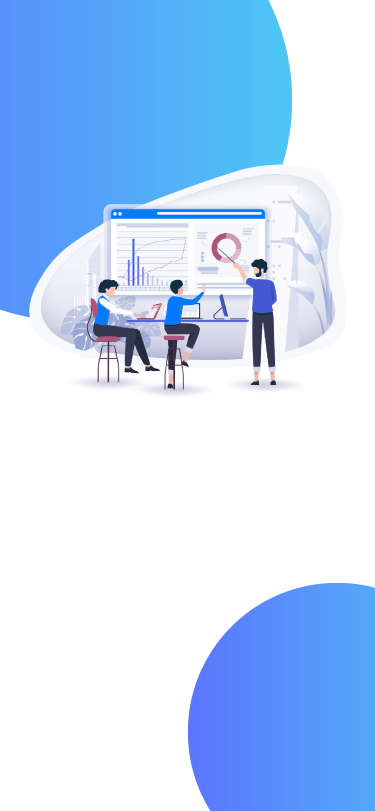
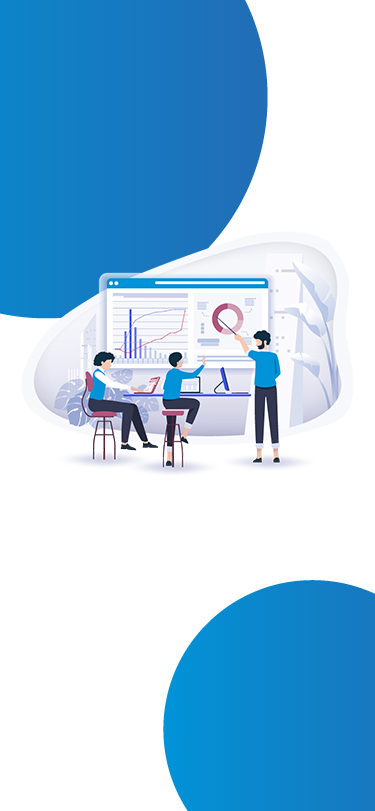
change photos

diff --git a/src/screens/Login/styles.js b/src/screens/Login/styles.js
@@ -17,7 +17,7 @@ const styles = StyleSheet.create({
   },
   topImageStyle: {
     width: ScaleHelpers.CalcWidth(100),
-    height: ScaleHelpers.CalcHeight(90),
+    height: ScaleHelpers.CalcHeight(100),
     alignSelf: 'center',
     justifyContent: 'center',
     alignItems: 'center',
@@ -42,6 +42,7 @@ const styles = StyleSheet.create({
     fontSize: ScaleHelpers.CalcWidth(4),
   },
   logo: {
+    resizeMode: 'stretch',
     width: ScaleHelpers.CalcWidth(70),
     height: ScaleHelpers.CalcWidth(30),
   },

diff --git a/src/Theme/AppStyles.js b/src/Theme/AppStyles.js
@@ -2,7 +2,7 @@
 export const interactoColor = '#4D7582';
 export const blueColor = 'rgb(92,117,254)';
 
-export const primaryColor = 'rgb(92,117,254)';
+export const primaryColor = '#1792d0';
 export const textColor = '#707070';
 export const chartColor = '#4EC7F5';
 

diff --git a/src/screens/Login/LoginScreen.js b/src/screens/Login/LoginScreen.js
@@ -173,7 +173,7 @@ class LoginScreen extends React.Component {
 
 
       <View style={styles.mainContainer}>
-        <ScrollView>
+        <ScrollView horizontal>
           <View>
             <Image
               source={BackgroundLoginImage}

diff --git a/src/screens/Welcome/styles.js b/src/screens/Welcome/styles.js
@@ -21,6 +21,7 @@ const styles = StyleSheet.create({
     width: ScaleHelpers.CalcWidth(100),
   },
   logo: {
+    resizeMode: 'stretch',
     width: ScaleHelpers.CalcWidth(54),
     height: ScaleHelpers.CalcWidth(23),
   },
